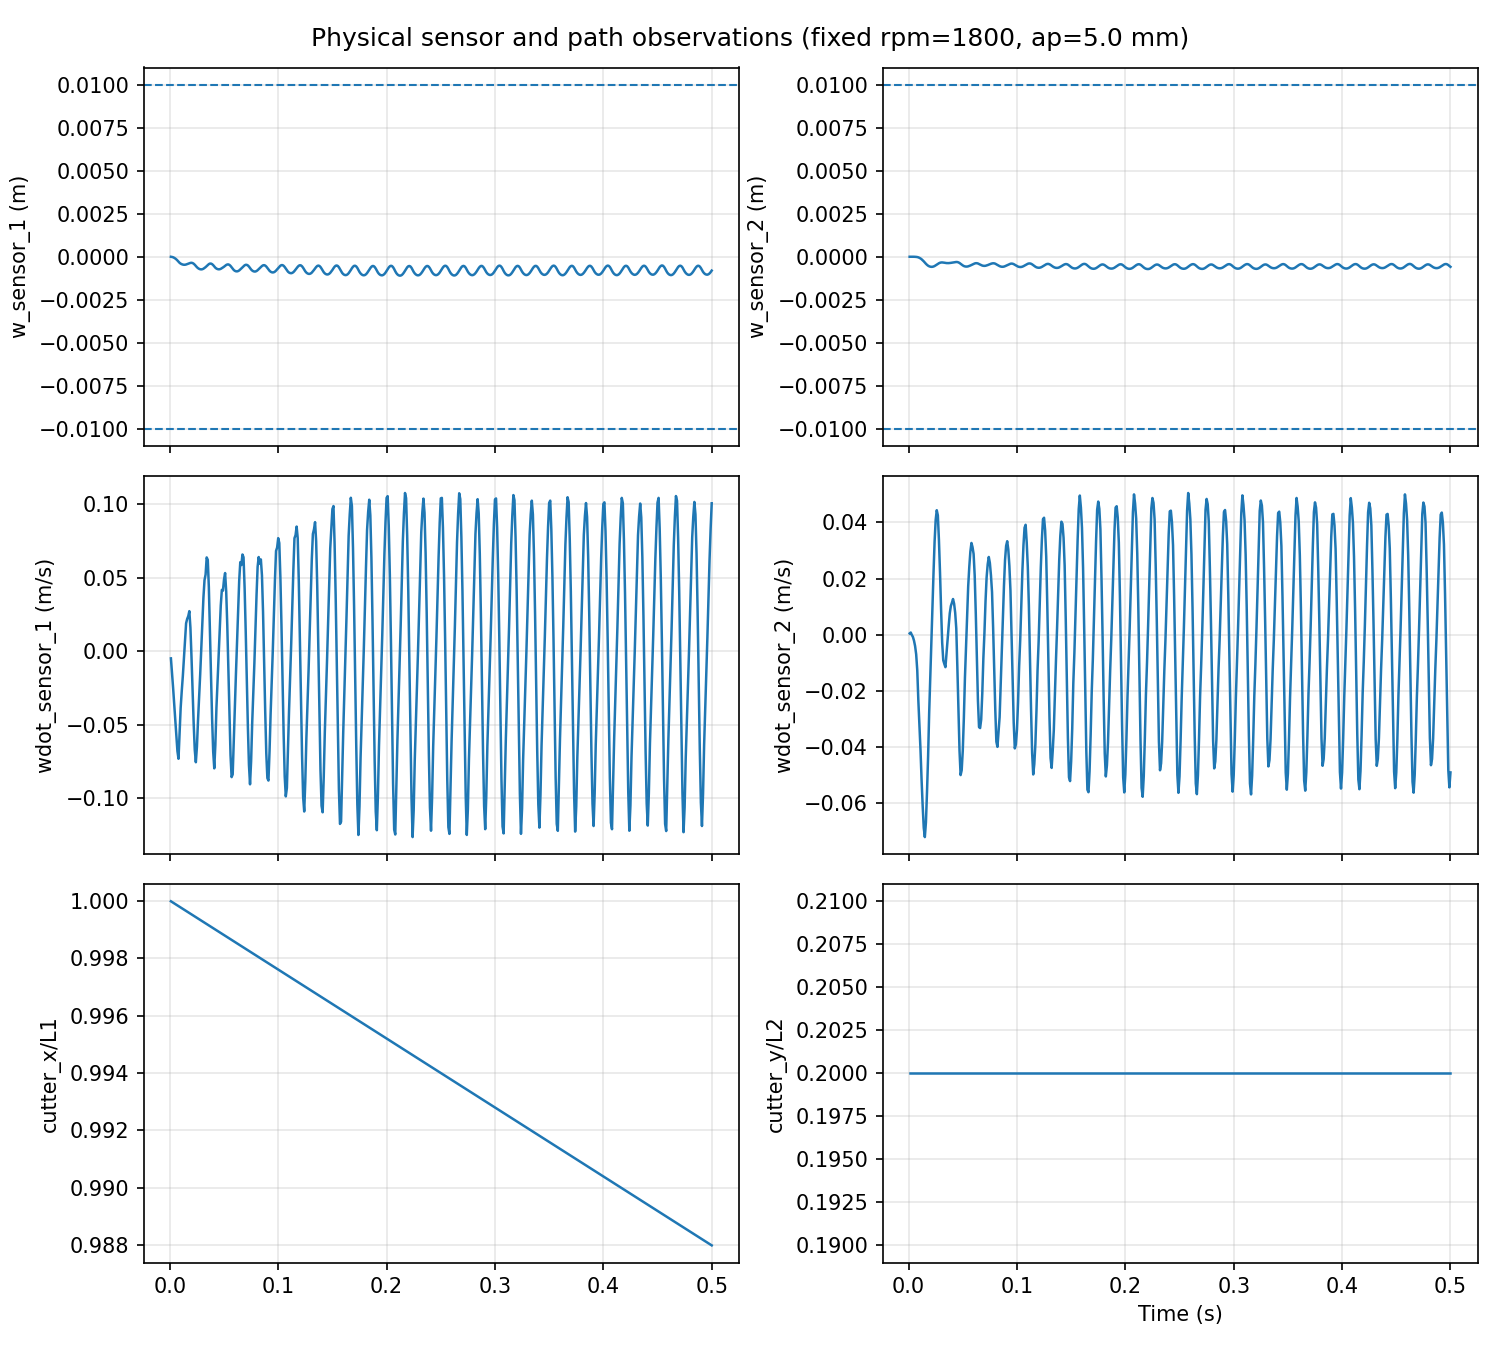
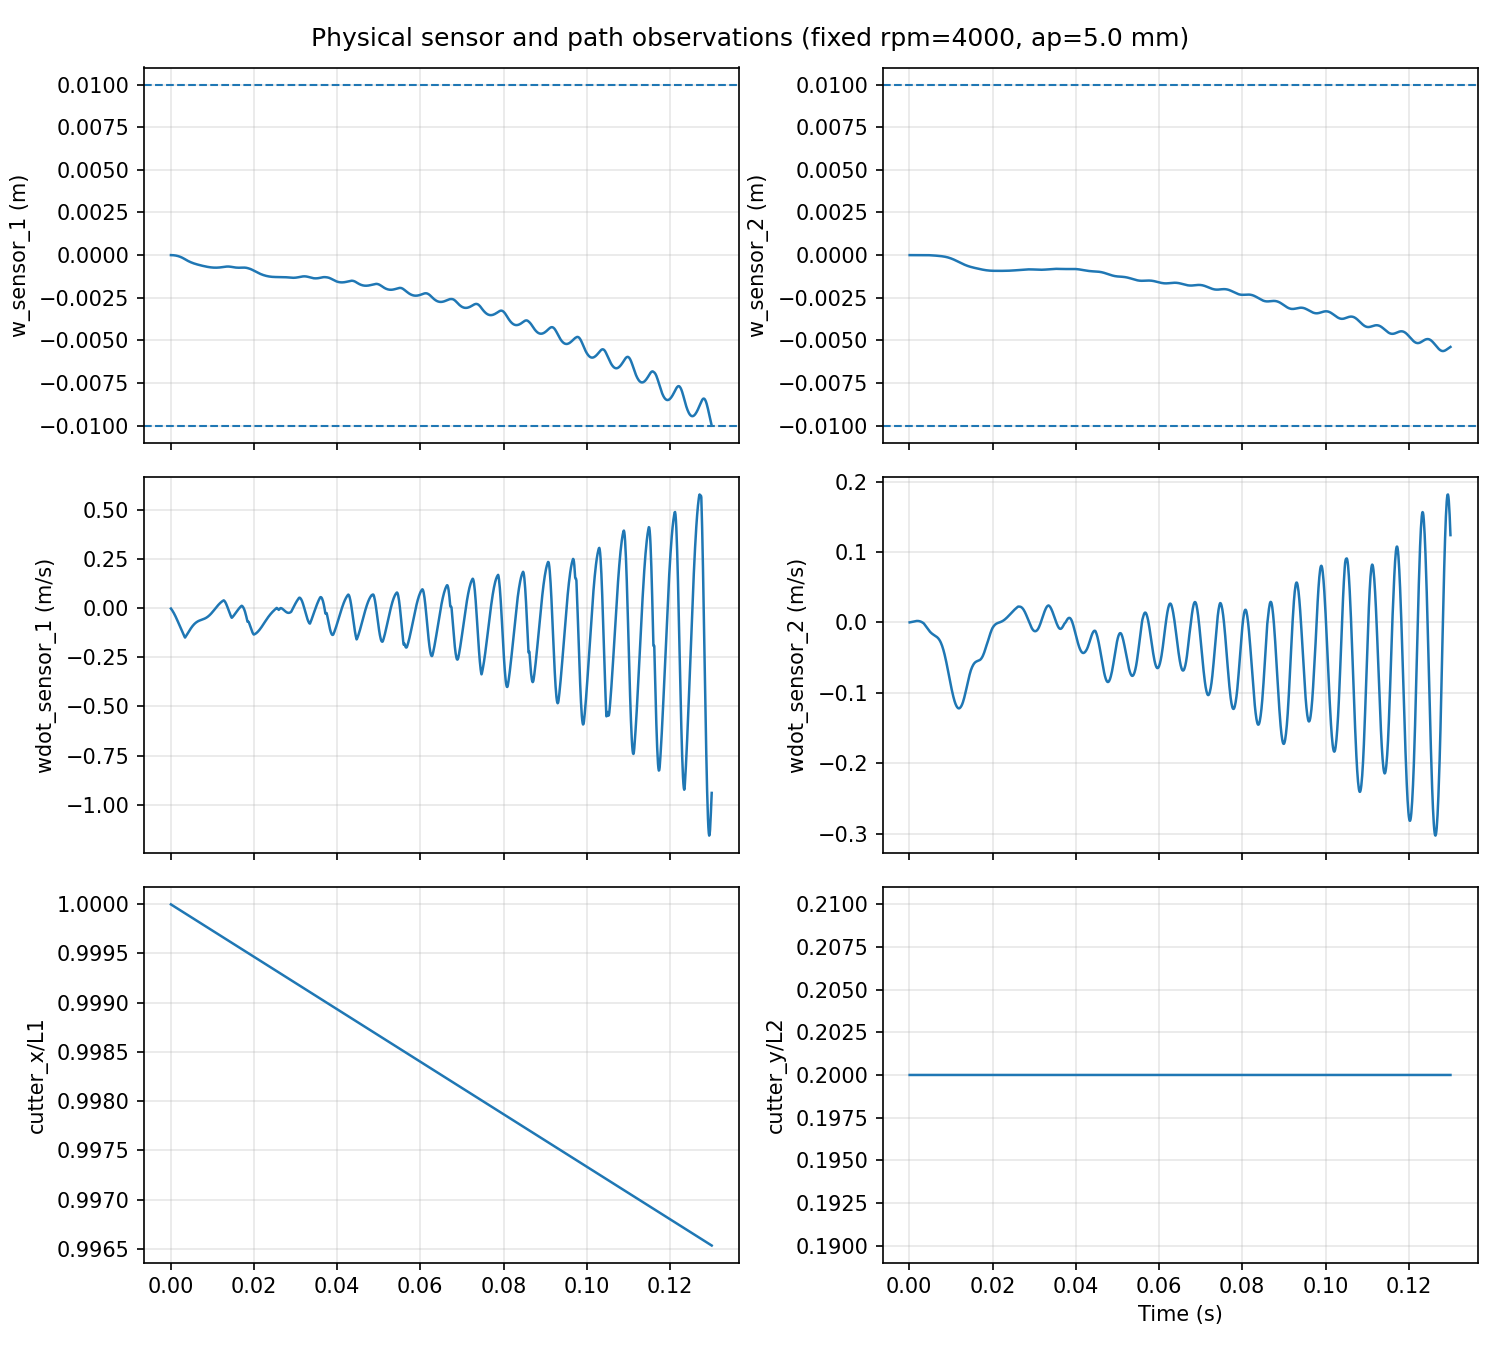
Update PlatePlant and related scripts for improved dynamics and functionality
- Set minimum RPM in PlatePlant to 50.0 for better operational range.
- Introduced a new function for computing modal mass vector, enhancing modal analysis accuracy.
- Adjusted parameters in PlatePlant, including maximum axial depth of cut and feed per tooth, to optimize milling performance.
- Updated random policy check script to reflect new default step count and time step settings.
- Added square-plate coefficients for modal analysis to prevent invalid extrapolation in frequency calculations.

diff --git a/custom_rl/plants/plate.py b/custom_rl/plants/plate.py
@@ -56,7 +56,7 @@ DEFAULT_SENSOR_POINTS: tuple[tuple[float, float], ...] = (
 DEFAULT_Y_CUTTER = 0.20
 
 # Spindle speed operating range [rpm]; internal physics uses rad/s.
-RPM_MIN = 400.0
+RPM_MIN = 50.0
 RPM_MAX = 4000.0
 
 # Practical reference speed for episode cap estimation.  This does not change
@@ -144,6 +144,65 @@ def estimate_training_episode_steps(
     )
 
 
+
+
+def _trapz_compat(y, x, *, axis: int):
+    """NumPy-version-safe trapezoidal integration.
+
+    np.trapezoid was introduced in newer NumPy versions.  Many Anaconda
+    Python 3.12 installations still provide only np.trapz.  Keep one helper so
+    the modal-mass calculation works on both versions without changing the
+    theory: M_k = ∫∫ rho_areal W_k^2 dxdy.
+    """
+    trapezoid = getattr(np, "trapezoid", None)
+    if trapezoid is not None:
+        return trapezoid(y, x=x, axis=axis)
+    return np.trapz(y, x=x, axis=axis)
+
+def compute_modal_mass_vector(
+    W_mn,
+    L1: float,
+    L2: float,
+    rho_areal: float,
+    m_max: int,
+    n_max: int,
+    *,
+    grid_points: int = 151,
+) -> np.ndarray:
+    """Compute true modal masses M_k = ∫∫ rho_areal * W_k(x,y)^2 dxdy.
+
+    The analytical shape functions are close to mass-normalized on [0, 1]^2,
+    so this often returns values close to the total plate mass.  Computing the
+    vector explicitly keeps the modal force projection rigorous and safe if the
+    mode-shape normalization changes later.
+    """
+    L1 = float(L1)
+    L2 = float(L2)
+    rho_areal = float(rho_areal)
+    m_max = int(m_max)
+    n_max = int(n_max)
+    grid_points = max(int(grid_points), 25)
+
+    xs = np.linspace(0.0, L1, grid_points, dtype=np.float64)
+    ys = np.linspace(0.0, L2, grid_points, dtype=np.float64)
+    X, Y = np.meshgrid(xs, ys, indexing="ij")
+
+    masses = np.zeros(m_max * n_max, dtype=np.float64)
+    k = 0
+    for m in range(m_max):
+        for n in range(n_max):
+            W = np.asarray(W_mn[m][n](X, Y), dtype=np.float64)
+            W = np.nan_to_num(W, nan=0.0, posinf=0.0, neginf=0.0)
+            integrand = rho_areal * W * W
+            int_y = _trapz_compat(integrand, ys, axis=1)
+            masses[k] = float(_trapz_compat(int_y, xs, axis=0))
+            k += 1
+
+    masses = np.nan_to_num(masses, nan=0.0, posinf=0.0, neginf=0.0)
+    masses = np.where(masses > 1e-18, masses, 1e-18)
+    return masses
+
+
 class PlatePlant(ODEPlant):
     """Nonlinear flexible-plate plant driven by a face-milling force model.
 
@@ -179,19 +238,19 @@ class PlatePlant(ODEPlant):
         nu: float = 0.33,
         rho: float = 2810.0,
         rho_type: str = "volumetric",
-        m_max: int = 3,
-        n_max: int = 2,
+        m_max: int = 2,
+        n_max: int = 3,
         mode_clamped_axis: str = "x",
         omega_min: float = OMEGA_MIN_RAD_S,
         omega_max: float = OMEGA_MAX_RAD_S,
         ap_min: float = 0.0,
-        ap_max: float = 1,
+        ap_max: float = 20,
         ae_min: float = 1.0,
         ae_max: float = 50.0,
         ae_default: float = 28.0,
         control_ae: bool = False,
         D_mm: float = 63.0,
-        feed_per_tooth_mm: float = 0.20,
+        feed_per_tooth_mm: float = 0.10,
         gamma_L_deg: float = 45.0,
         gamma_r_deg: float = 5.0,
         gamma_a_deg: float = 5.0,
@@ -413,9 +472,6 @@ class PlatePlant(ODEPlant):
         )
         self.y_traj = np.full_like(self.t_original, self.y_cutter, dtype=np.float64)
 
-        # Modal mass.  Use areal mass rho*h once; do not double count h.
-        self.M_modal = self.L1 * self.L2 * self.rho_areal
-
         # ------------------------------------------------------------------
         # Structural mode shapes, frequencies, nonlinear stiffness
         # ------------------------------------------------------------------
@@ -429,6 +485,21 @@ class PlatePlant(ODEPlant):
         )
         self.W_mn = W_mn
         self.V_mn = V_mn
+
+        # True modal mass vector: M_k = ∫∫ rho_areal * W_k(x,y)^2 dxdy.
+        # For the current normalized analytical shapes this is numerically close
+        # to total plate mass for each mode, but using a vector is the rigorous
+        # modal-coordinate formulation and works for non-normalized shapes too.
+        self.M_modal = compute_modal_mass_vector(
+            W_mn,
+            self.L1,
+            self.L2,
+            self.rho_areal,
+            self.m_max,
+            self.n_max,
+            grid_points=max(int(stiffness_grid_points), 151),
+        )
+        self.total_mass = self.L1 * self.L2 * self.rho_areal
 
         self.Phi = build_mode_shape_matrix(
             W_mn,
@@ -475,9 +546,9 @@ class PlatePlant(ODEPlant):
         # compute_nonlinear_stiffness returns structural cubic coefficients K3_k
         # with force scaling. f_nonlinear2 integrates an acceleration equation,
         # so the cubic term must be mass-normalized exactly like the cutting
-        # force projection Fk = Q_k / M_k. For the current analytical mode
-        # shapes, self.M_modal = ∫∫ rho_areal*W_k^2 dA ≈ L1*L2*rho_areal.
-        lambda_vec = lambda_structural_vec / max(float(self.M_modal), 1e-18)
+        # force projection Fk = Q_k / M_k.
+        modal_mass_safe = np.maximum(np.asarray(self.M_modal, dtype=np.float64), 1e-18)
+        lambda_vec = lambda_structural_vec / modal_mass_safe
         zeta_vec = self.modal_damping_ratio * np.ones(self.K, dtype=np.float64)
 
         self.omega_vec = omega_vec
@@ -872,5 +943,6 @@ __all__ = [
     "estimate_pass_duration",
     "estimate_pass_episode_steps",
     "estimate_training_episode_steps",
+    "compute_modal_mass_vector",
     "DEFAULT_SENSOR_POINTS",
 ]

diff --git a/custom_rl/plants/compute_natural_frequencies_updated.py b/custom_rl/plants/compute_natural_frequencies_updated.py
@@ -61,6 +61,28 @@ _EXP_DATA = np.array(
 
 _ASPECT_RATIOS = np.array([2.00, 2.50, 3.33, 5.00], dtype=np.float64)
 
+# Square-plate coefficients for the first six x-y-plane modes reported for the
+# AL7075 cantilever-plate reference used by this project:
+# [107.4, 258.8, 654.6, 837.4, 946.0, 1654.2] rad/s.
+#
+# The mapping is zero-based and follows compute_mode_shapes_updated:
+#   W[m][n] = phi_m(clamped-free direction) * psi_n(width/free-free direction)
+# so the first-six reference set is represented by:
+#   (0,0), (0,1), (1,0), (0,2), (1,1), (1,2).
+#
+# These dimensionless coefficients are omega_k /
+# sqrt(D/(rho_areal*L1^4)) for E=71.7e9 Pa, nu=0.33,
+# rho_areal=56.2 kg/m^2, L1=L2=1 m, h=0.02 m.  They prevent invalid
+# extrapolation of the older table, whose aspect-ratio data start at a/b=2.
+_SQUARE_ASPECT_MODE_COEFFS = {
+    (0, 0): 3.4763357259909563,
+    (0, 1): 8.376868598725245,
+    (1, 0): 21.18816919712854,
+    (0, 2): 27.105060934097756,
+    (1, 1): 30.62023840479446,
+    (1, 2): 53.54333864954204,
+}
+
 
 def _validate_positive(name: str, value: float) -> float:
     value = float(value)
@@ -231,17 +253,20 @@ def compute_natural_frequencies(
 
     for m in range(m_max):
         for n in range(n_max):
-            # Keep the original indexing convention:
-            # table column 0 is matched to n, table column 1 is matched to m.
-            mask = (_EXP_DATA[:, 0] == float(n)) & (_EXP_DATA[:, 1] == float(m))
-            idx = np.where(mask)[0]
-
-            if idx.size == 0:
-                coeff = fallback_coefficient
+            if abs(aspect_ratio - 1.0) < 1e-10 and (m, n) in _SQUARE_ASPECT_MODE_COEFFS:
+                coeff = _SQUARE_ASPECT_MODE_COEFFS[(m, n)]
             else:
-                coeff = coeffs[idx[0]]
-                if not np.isfinite(coeff):
+                # Keep the original indexing convention:
+                # table column 0 is matched to n, table column 1 is matched to m.
+                mask = (_EXP_DATA[:, 0] == float(n)) & (_EXP_DATA[:, 1] == float(m))
+                idx = np.where(mask)[0]
+
+                if idx.size == 0:
                     coeff = fallback_coefficient
+                else:
+                    coeff = coeffs[idx[0]]
+                    if not np.isfinite(coeff):
+                        coeff = fallback_coefficient
 
             omega_mn[m, n] = scale * coeff
 
@@ -252,6 +277,7 @@ def compute_natural_frequencies(
             "interpreted_rho_type": interpreted_rho_type,
             "aspect_ratio": aspect_ratio,
             "frequency_scale_rad_s": scale,
+            "uses_square_reference_coefficients": bool(abs(aspect_ratio - 1.0) < 1e-10),
             "units": "rad/s",
         }
         return omega_mn, info

diff --git a/scripts/check_plate_random_policy.py b/scripts/check_plate_random_policy.py
@@ -348,9 +348,9 @@ def plot_rollout(
 def main() -> None:
     parser = argparse.ArgumentParser(description="Simple face-milling plate env smoke test.")
     parser.add_argument("--reward", default="dense", choices=["dense", "sparse", "quadratic"])
-    parser.add_argument("--steps", type=int, default=500)
+    parser.add_argument("--steps", type=int, default=10000)
     parser.add_argument("--seed", type=int, default=42)
-    parser.add_argument("--dt", type=float, default=0.001)
+    parser.add_argument("--dt", type=float, default=0.0001)
     parser.add_argument(
         "--max-episode-steps",
         type=int,

diff --git a/custom_rl/integration/rk4.py b/custom_rl/integration/rk4.py
@@ -175,7 +175,7 @@ def rk4_step(
     u: Array,
     dt: float,
     *,
-    history_module: Optional[Any] = "f_nonlinear2_face_milling",
+    history_module: Optional[Any] = None,
     commit_history: bool = True,
 ) -> Array:
     """
